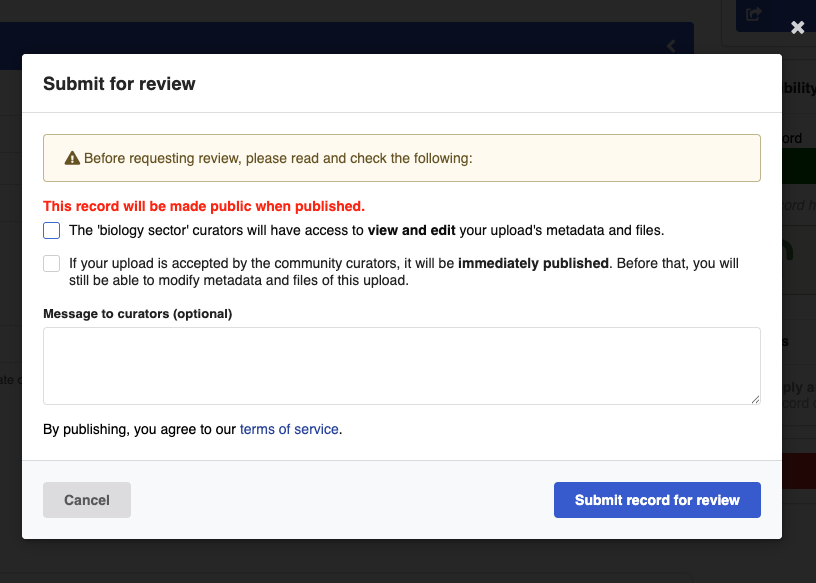
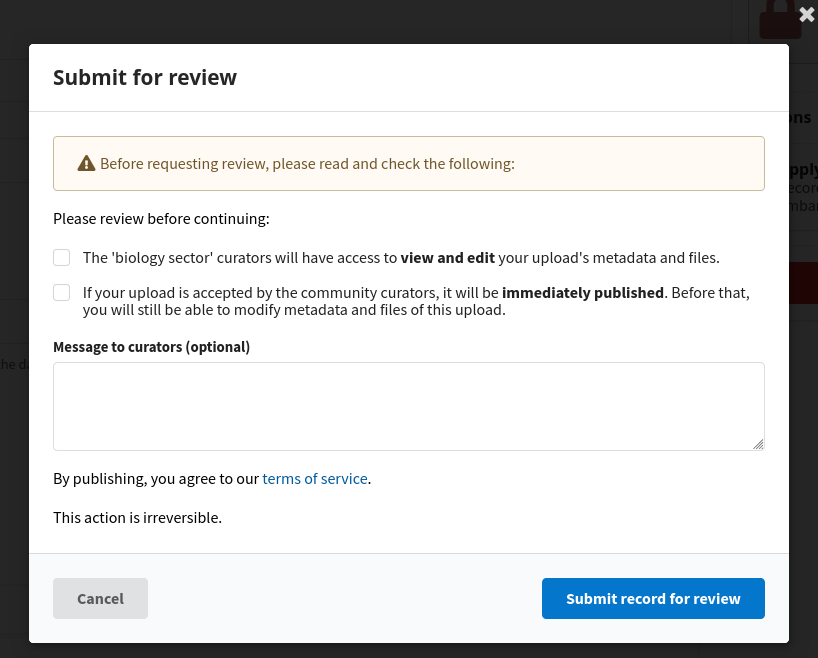
v13: add APP_RDM_DEPOSIT_FORM_PUBLISH_MODAL_EXTRA deprecation notice

Changed region(s): [[0.0, 0.0, 1.0, 0.988]]

diff --git a/docs/operate/customize/compliance_info.md b/docs/operate/customize/compliance_info.md
@@ -7,7 +7,7 @@ InvenioRDM lets you customize the confirmation information shown to users when p
 ## Configure checkboxes
 InvenioRDM requires users to confirm compliance both when submitting a record for review and when publishing directly. Each interface can be configured independently, allowing you to tailor the compliance workflow to your organization's needs.
 
-In your `mapping.js`, parametrize the your UI components by adding a new `extraCheckboxes` parameter in the following format:
+In your `mapping.js`, parametrize your UI components by adding a new `extraCheckboxes` parameter in the following format:
 
 ```javascript
 import React from "react";
@@ -18,7 +18,7 @@ import { parametrize } from "react-overridable";
 const parameters = {
   extraCheckboxes: [
     {
-      fieldPath: "acceptTermsOfService",  // give it an unique name
+      fieldPath: "acceptTermsOfService",  // give it a unique name
       text: i18next.t(
         "I confirm that this record complies with the data policy and terms of service."
       ),  // define the text to show
@@ -29,7 +29,8 @@ const parameters = {
 const PublishModalComponent = parametrize(PublishModal, parameters);
 
 export const overriddenComponents = {
-  "InvenioRdmRecords.PublishModal.container": PublishModalComponent,  // applied only to the confirmation box when publishing directly
+  // applied only to the confirmation box when publishing directly
+  "InvenioRdmRecords.PublishModal.container": PublishModalComponent,
 };
 ```
 
@@ -40,28 +41,28 @@ You can also show information messages before and after the compliance checkboxe
 
 ```javascript
 import React from "react";
-import { i18next } from "@translations/invenio_rdm_records/i18next";
 import { SubmitReviewModal } from "@js/invenio_rdm_records";
 import { parametrize } from "react-overridable";
 
 const LegalDisclaimer = () => (
   <>
-    <p className="text-xs">
-      By publishing, you agree to our <a href="/terms" className="underline">terms of service</a>.
+    <p>
+      By publishing, you agree to our <a href="/terms">terms of service</a>.
     </p>
-    <p className="text-xs mt-1">This action is irreversible.</p>
+    <p>This action is irreversible.</p>
   </>
 );
 
 const parameters = {
-  beforeContent: () => <p className="text-sm mb-2">Please review before continuing:</p>,
+  beforeContent: () => <><p>Please review before continuing:</p><p>{/*Kept empty for spacing */}</p></>,
   afterContent: () => <LegalDisclaimer />,
 };
 
 const SubmitReviewModalComponent = parametrize(SubmitReviewModal, parameters);
 
 export const overriddenComponents = {
-  "InvenioRdmRecords.SubmitReviewModal.container": SubmitReviewModalComponent,  // applied only to the confirmation box when submitting for review
+  // applied only to the confirmation box when submitting for review
+  "InvenioRdmRecords.SubmitReviewModal.container": SubmitReviewModalComponent,
 };
 ```
 
@@ -72,4 +73,3 @@ Don't forget to re-build the assets for the changes to take effect.
 ```sh
 invenio-cli assets build
 ```
-

diff --git a/docs/releases/v13/version-v13.0.0.md b/docs/releases/v13/version-v13.0.0.md
@@ -217,6 +217,7 @@ These tools are **disabled by default** and will be tested further in the coming
 ## Deprecations
 - Direct Python imports of identifier schemes (e.g., `from idutils.isbn import normalize_isbn`) are now deprecated and will be removed in future versions. If you have custom code that directly imports scheme modules, you'll need to update it to use the new API.
 - Usage of `invenio_records_resources.services.Link` is deprecated in favor of `invenio_records_resources.services.EndpointLink` for InvenioRDM links and `invenio_records_resources.services.ExternalLink` for external third-party links. `Link` will be removed in a future major InvenioRDM release.
+- Usage of the configuration `APP_RDM_DEPOSIT_FORM_PUBLISH_MODAL_EXTRA` is deprecated and will be removed in a future major InvenioRDM release. [Override](../../operate/customize/look-and-feel/override_components.md) the modal component with your own [customized compliance information](../../operate/customize/compliance_info.md) instead.
 
 ## Breaking changes
 - The minimum required OpenSearch version is now **v2.12**. This change is necessary due to a bug in earlier OpenSearch versions that affects the handling of `geo-shape` fields introduced in InvenioRDM v13. See the [upgrade guide](upgrade-v13.0.md#opensearch-version) for more information.

diff --git a/docs/releases/v13/upgrade-v13.0.md b/docs/releases/v13/upgrade-v13.0.md
@@ -240,6 +240,10 @@ It is recommended to update all references to `TRUSTED_HOSTS` to avoid deprecati
 
 Usage of `invenio_records_resources.services.Link` is deprecated in favor of `invenio_records_resources.services.EndpointLink` for InvenioRDM links and `invenio_records_resources.services.ExternalLink` for external third-party links. Replace instances of `Link` in your custom code, if any, appropriately. `Link` will be removed in a future major InvenioRDM release.
 
+*`APP_RDM_DEPOSIT_FORM_PUBLISH_MODAL_EXTRA`*
+
+Usage of the configuration `APP_RDM_DEPOSIT_FORM_PUBLISH_MODAL_EXTRA` is deprecated and will be removed in a future major InvenioRDM release. [Override](../../operate/customize/look-and-feel/override_components.md) the modal component with your own [customized compliance information](../../operate/customize/compliance_info.md) instead.
+
 #### Display versions in administration panel
 As described in the [release notes](./version-v13.0.0.md#miscellaneous-additions), you can now display the versions of your installed modules directly in the Administration panel.
 To enable this feature, add the following to your `invenio.cfg`:
